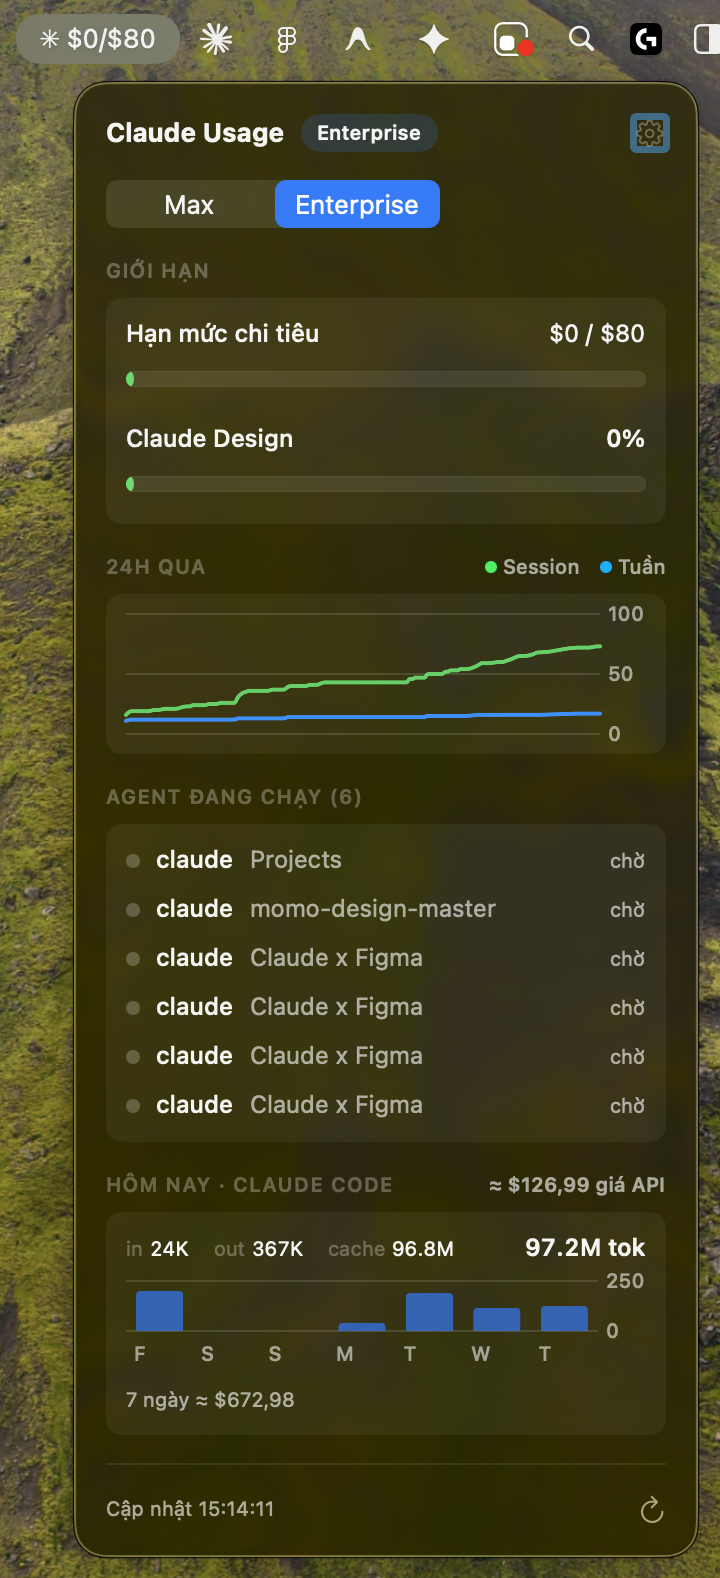
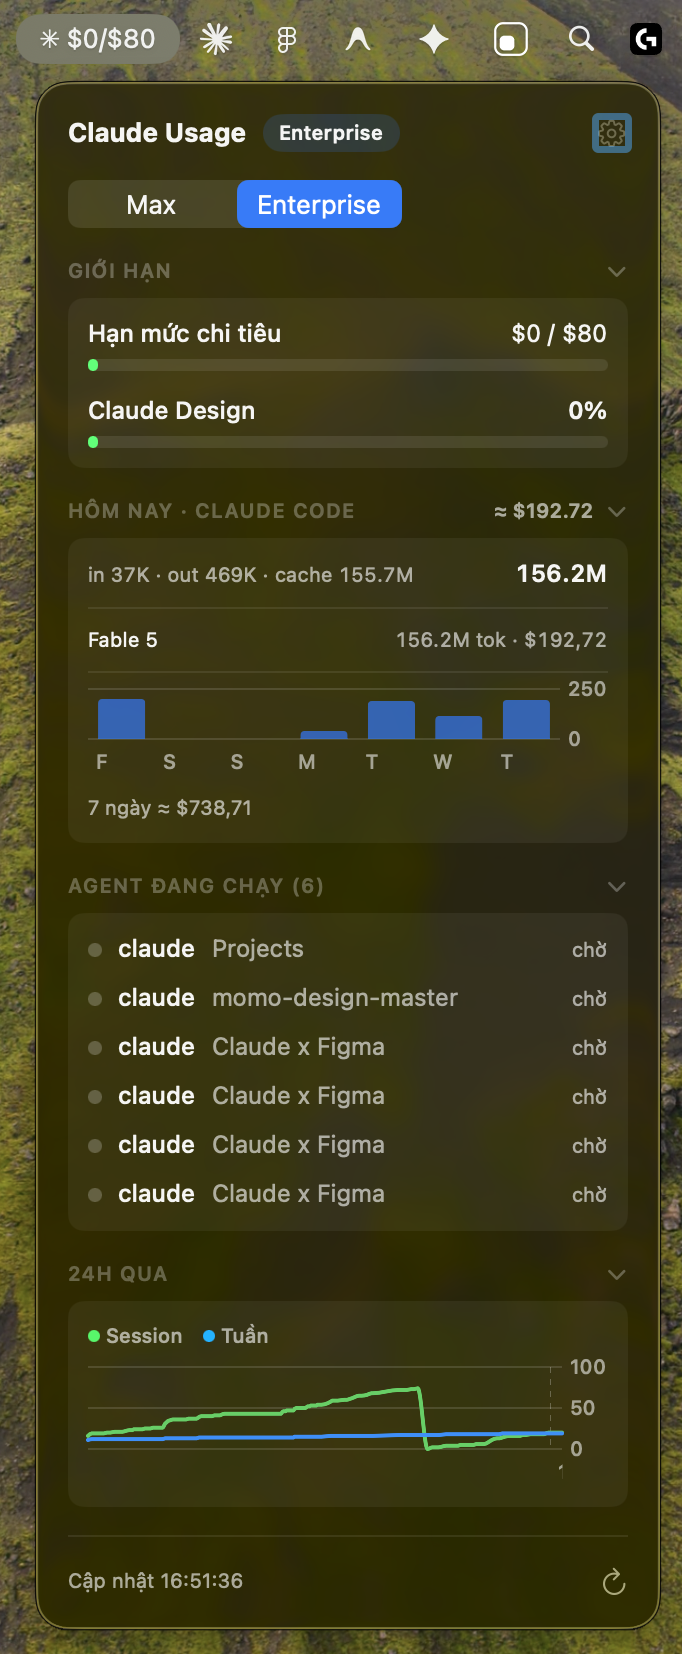
v2.1.2: clarify API-price label, hide synthetic model rows; v2.1 screenshots
- Today trailing now reads '≈ $X if on API / nếu xài API' so nobody
  mistakes it for a charge
- '<synthetic>' (Claude Code's marker for locally-generated messages,
  not API calls) no longer appears in the per-model breakdown; zero-
  token rows hidden

Changed region(s): [[0.0, 0.0, 1.0, 1.0], [0.7082, 0.4968, 0.7698, 0.5279]]

diff --git a/Sources/ClaudeBar/PopoverView.swift b/Sources/ClaudeBar/PopoverView.swift
@@ -125,7 +125,7 @@ struct PopoverView: View {
         }
         if let today = tokens.today {
             CollapsibleSection(tr("Today · Claude Code", "Hôm nay · Claude Code"), key: "today",
-                               trailing: "≈ $\(String(format: "%.2f", today.cost))") {
+                               trailing: "≈ $\(String(format: "%.2f", today.cost)) \(tr("if on API", "nếu xài API"))") {
                 CardBox { todayRows(today) }
             }
         }
@@ -331,7 +331,8 @@ struct PopoverView: View {
                 Divider()
                 // Per-model breakdown — names come straight from transcript
                 // model ids, so brand-new models appear automatically.
-                ForEach(today.models.values.sorted { $0.cost > $1.cost }) { share in
+                ForEach(today.models.values.filter { $0.tokens > 0 }
+                    .sorted { $0.cost > $1.cost }) { share in
                     HStack {
                         Text(share.name).font(.caption)
                         Spacer()

diff --git a/Sources/ClaudeBar/TokenStats.swift b/Sources/ClaudeBar/TokenStats.swift
@@ -117,7 +117,9 @@ final class TokenStats: ObservableObject {
                 stats.cacheRead += cacheRead
                 stats.cacheWrite += cacheWrite
                 stats.cost += entryCost
-                if !model.isEmpty {
+                // "<synthetic>" marks locally-generated messages (errors,
+                // system notices) — not real API calls; skip in the breakdown.
+                if !model.isEmpty, !model.hasPrefix("<") {
                     let name = Pricing.displayName(model)
                     var share = stats.models[name] ?? ModelShare(name: name)
                     share.tokens += input + output + cacheRead + cacheWrite
